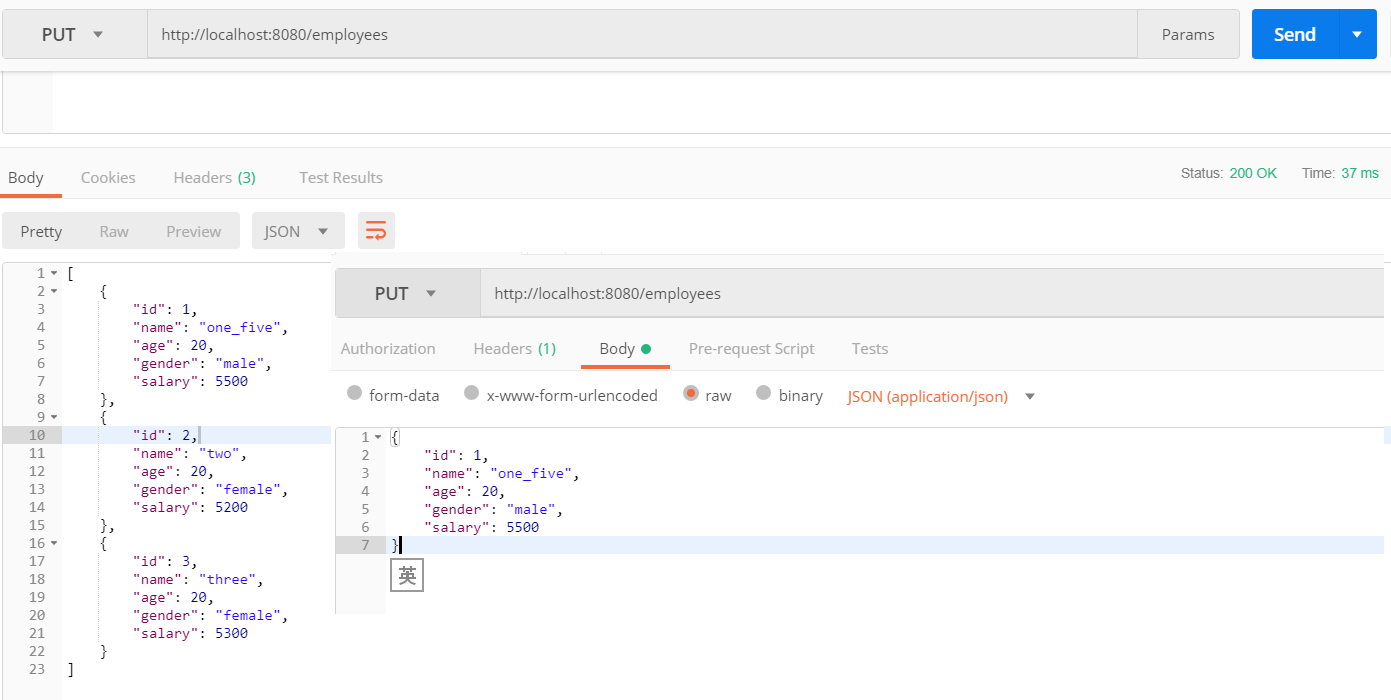
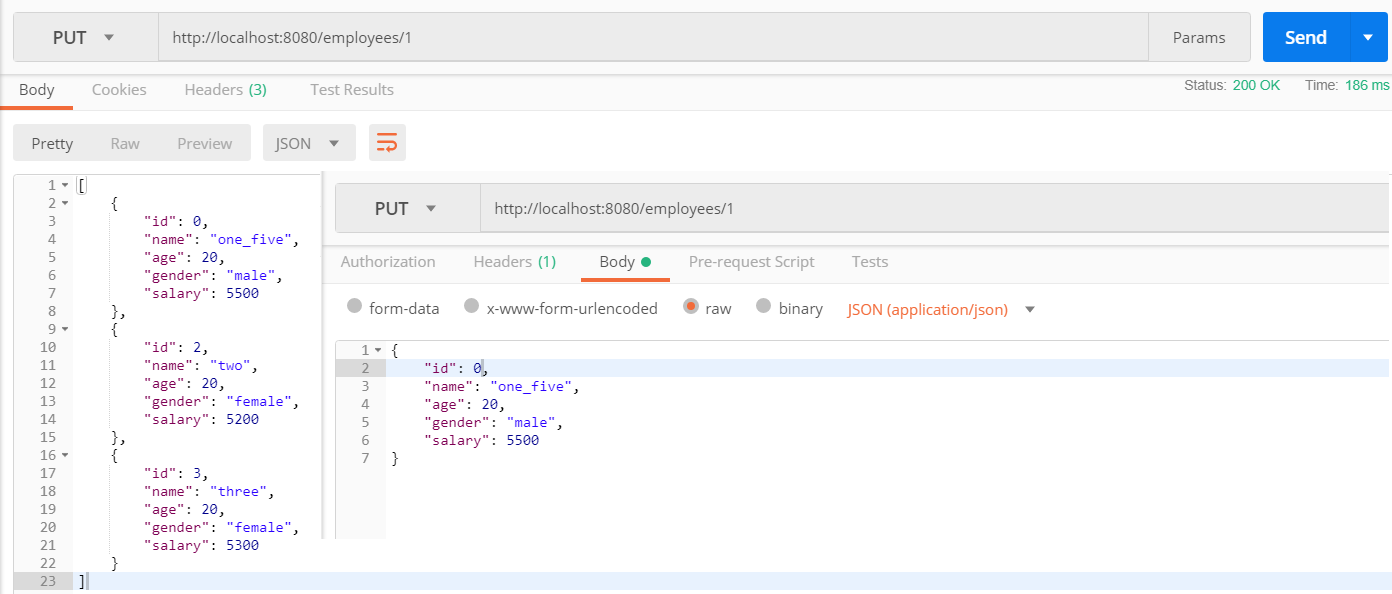
Feat: implements the function delete employees by index in employees controller and screenshot and pass the method test

diff --git a/src/test/java/com/tw/apistackbase/EmployeeControllerTest.java b/src/test/java/com/tw/apistackbase/EmployeeControllerTest.java
@@ -9,9 +9,7 @@ import org.springframework.test.context.junit4.SpringRunner;
 import org.springframework.test.web.servlet.MockMvc;
 import org.springframework.test.web.servlet.ResultMatcher;
 
-import static org.springframework.test.web.servlet.request.MockMvcRequestBuilders.get;
-import static org.springframework.test.web.servlet.request.MockMvcRequestBuilders.post;
-import static org.springframework.test.web.servlet.request.MockMvcRequestBuilders.put;
+import static org.springframework.test.web.servlet.request.MockMvcRequestBuilders.*;
 import static org.springframework.test.web.servlet.result.MockMvcResultHandlers.print;
 import static org.springframework.test.web.servlet.result.MockMvcResultMatchers.content;
 import static org.springframework.test.web.servlet.result.MockMvcResultMatchers.status;
@@ -158,7 +156,7 @@ public class EmployeeControllerTest {
 
     @Test
     public void should_return_employees_when_call_update_employee_givn_employee() throws Exception {
-        mockMvc.perform(put("/employees")
+        mockMvc.perform(put("/employees/1")
                 .contentType("application/json;charset=UTF-8")
                 .content("{\n" +
                         "\t\"id\": 1,\n" +
@@ -178,6 +176,30 @@ public class EmployeeControllerTest {
                         "        \"gender\": \"male\",\n" +
                         "        \"salary\": 5500\n" +
                         "    },\n" +
+                        "    {\n" +
+                        "        \"id\": 2,\n" +
+                        "        \"name\": \"two\",\n" +
+                        "        \"age\": 20,\n" +
+                        "        \"gender\": \"female\",\n" +
+                        "        \"salary\": 5200\n" +
+                        "    },\n" +
+                        "    {\n" +
+                        "        \"id\": 3,\n" +
+                        "        \"name\": \"three\",\n" +
+                        "        \"age\": 20,\n" +
+                        "        \"gender\": \"female\",\n" +
+                        "        \"salary\": 5300\n" +
+                        "    }\n" +
+                        "]"));
+    }
+
+    @Test
+    public void should_return_employees_when_call_delete_employee_by_index_givn_index() throws Exception {
+        mockMvc.perform(delete("/employees/1"))
+                .andDo(print())
+                .andExpect(status().isOk())
+                .andExpect(content().contentType("application/json;charset=UTF-8"))
+                .andExpect(content().json("[\n" +
                         "    {\n" +
                         "        \"id\": 2,\n" +
                         "        \"name\": \"two\",\n" +

diff --git a/src/main/java/com/tw/apistackbase/controller/EmployeeController.java b/src/main/java/com/tw/apistackbase/controller/EmployeeController.java
@@ -32,16 +32,17 @@ public class EmployeeController {
         return employees;
     }
 
-    @PutMapping
-    public List<Employee> updateEmployee(@RequestBody Employee employee){
-        int index = -1;
-        for(int i = 0; i < employees.size(); i++)
-            if(employees.get(i).getId() == employee.getId())
-                index = i;
-        employees.set(index,employee);
+    @PutMapping("/{index}")
+    public List<Employee> updateEmployee(@PathVariable int index, @RequestBody Employee employee){
+        employees.set(index-1,employee);
         return employees;
     }
 
+    @DeleteMapping("{index}")
+    public List<Employee> deleteEmployeeByIndex(@PathVariable int index){
+        employees.remove(index-1);
+        return employees;
+    }
     public List<Employee> getEmployeesWithLimitPageAndPageSize(int page, int pageSize){
         return employees.subList((page - 1) * pageSize, page * pageSize );
     }
